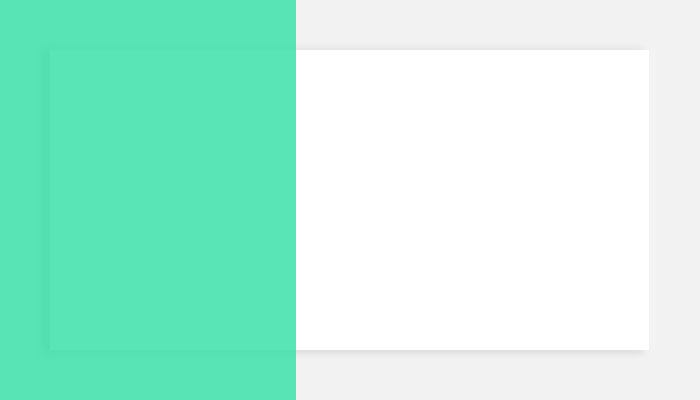
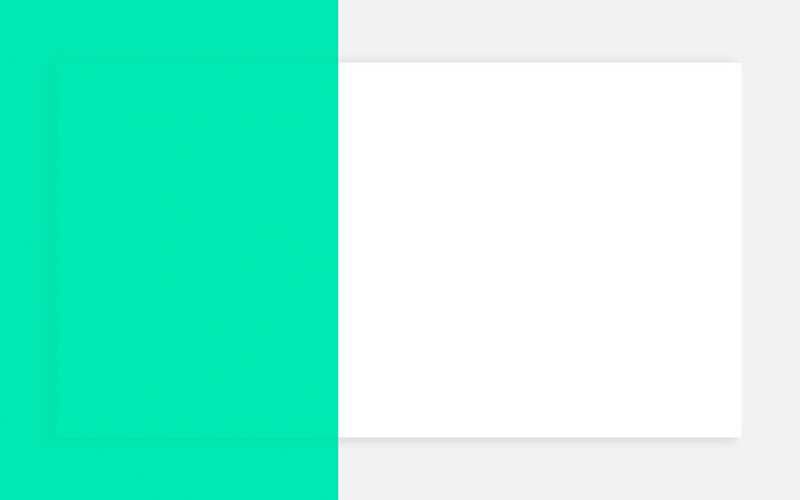
login page background changed, size of the window changed of login page

diff --git a/src/main/java/application/nthenergy/Login.java b/src/main/java/application/nthenergy/Login.java
@@ -11,7 +11,7 @@ public class Login extends Application {
     @Override
     public void start(Stage stage) throws IOException {
         FXMLLoader fxmlLoader = new FXMLLoader(Dashboard.class.getResource("views/login-view.fxml"));
-        Scene scene = new Scene(fxmlLoader.load(), 700, 400);
+        Scene scene = new Scene(fxmlLoader.load(), 800, 500);
         stage.setTitle("NTH Energy - Customer Data Platform - Login");
         stage.setScene(scene);
         stage.show();
